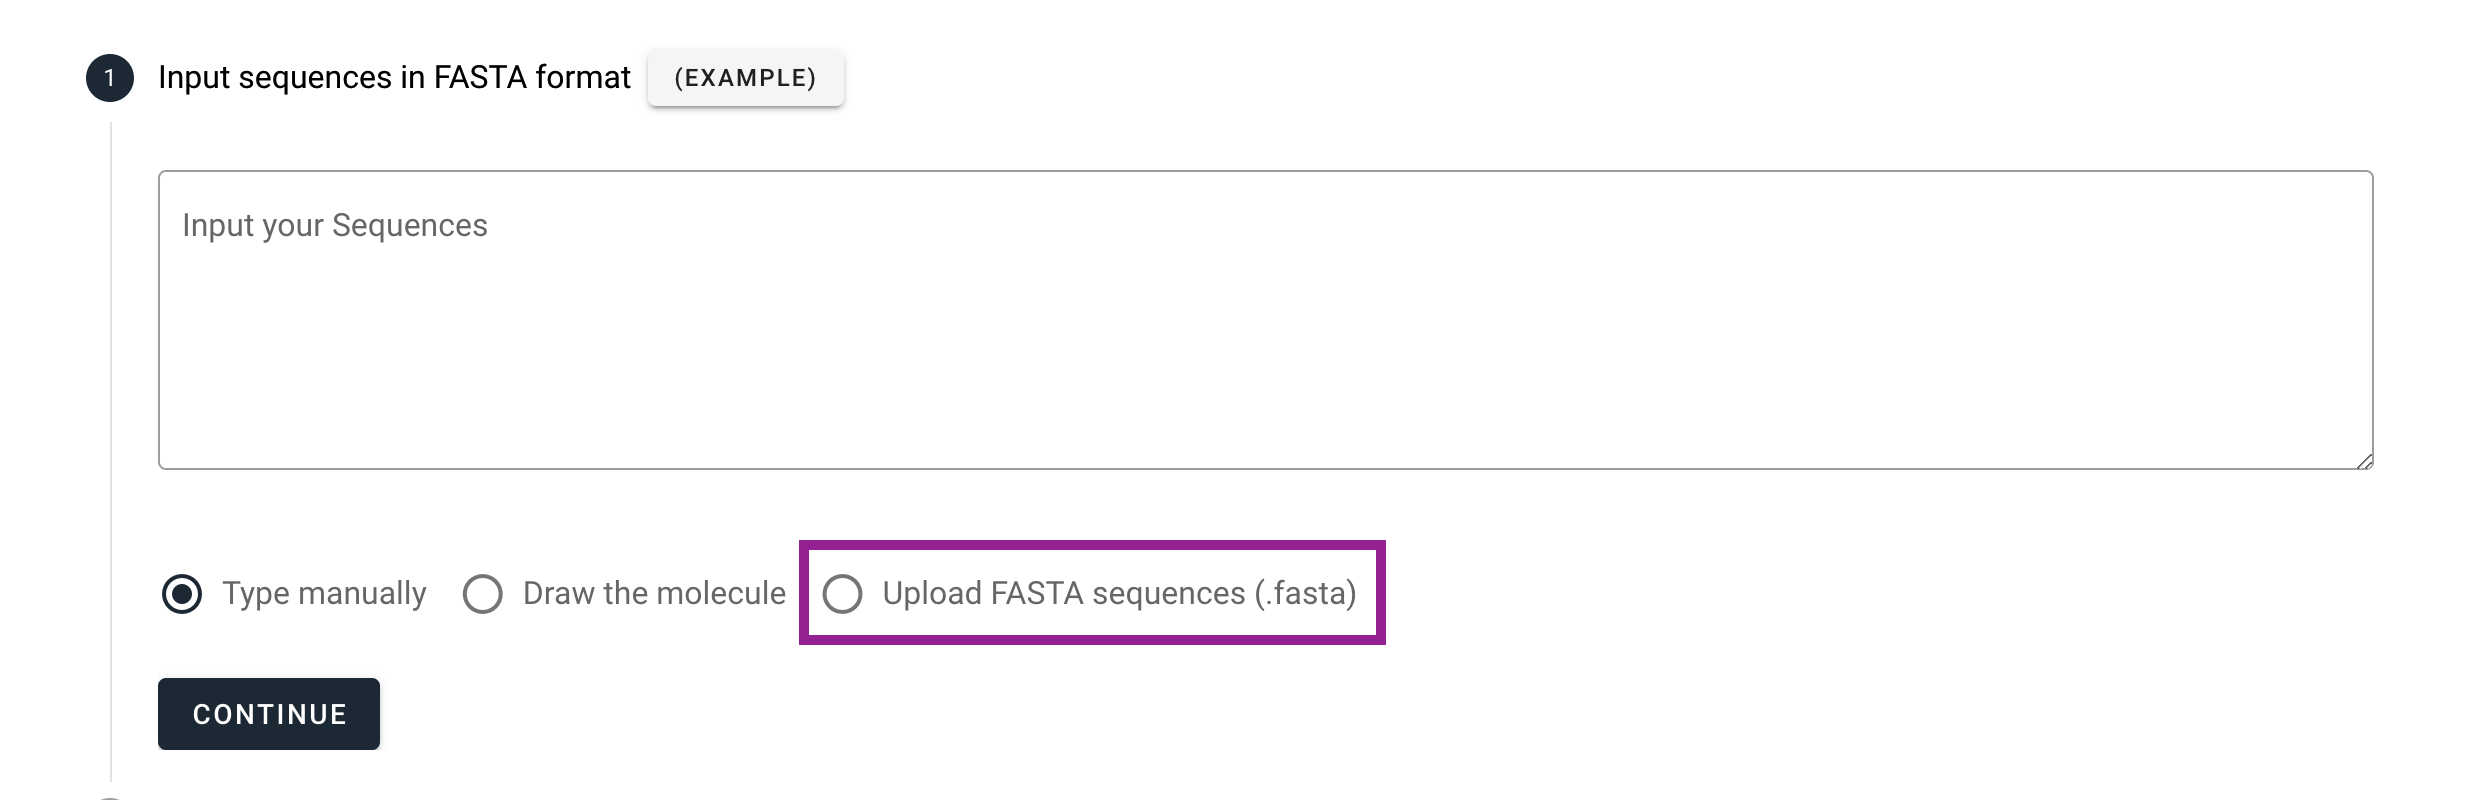
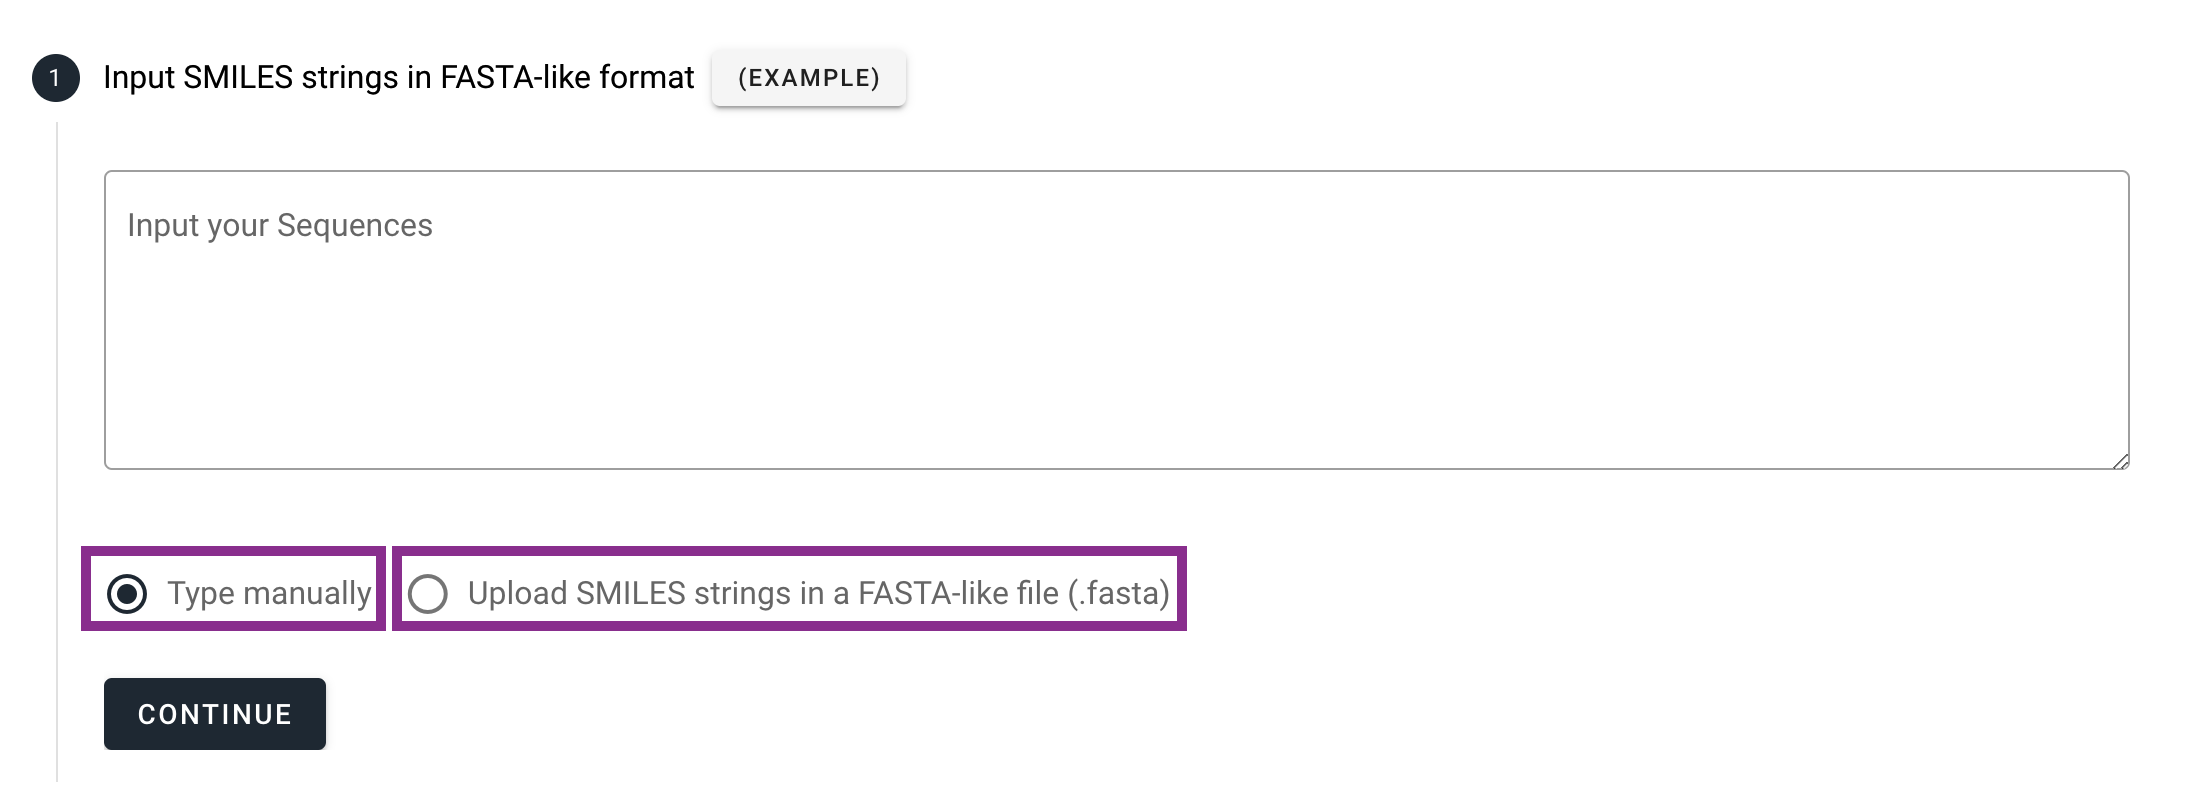
Update: Updated the help page.

diff --git a/pages/ssl-gcn/help.vue b/pages/ssl-gcn/help.vue
@@ -6,28 +6,27 @@
                 <div>
                     <h3 class="text-2xl">Input – Sequences</h3>
                     <ImageCard class="mt-2" src="/images/ssl-toxgcn-help-sequences.png" />
-                    <p>Paste your amino acide sequences in FASTA format such as:</p>
+                    <p>Paste your SMILES strings using the FASTA format such as:</p>
                     <code class="bg-gray-500"
                         >>TEST0<br />O=C1Cc2cc(CCN3CCN(c4nsc5ccccc45)CC3)c(Cl)cc2N1<br />>TEST1<br />CN(C)CCOC1=Cc2ccccc2Sc2ccc(Cl)cc21</code
                     >
                     <p>
-                        where AC_1 and AC_2 are sequence IDs. Each sequence should be at least 5
-                        a.a. long and maximally 250 a.a. or an error will be reported. Only 1-letter
-                        code for 20 standard amino acids is acceptable. If the number of sequences
-                        is large, you can upload them in a file (in FASTA format) by selecting the
-                        “Upload FASTA sequences” checkbox. Uploaded sequence files are limited to 1
-                        MB.
+                        where TEST0 and TEST1 are IDs. If the number of compounds is large, you can
+                        upload them in a file (in a FASTA-like format) by selecting the “Upload”
+                        checkbox. Uploaded data files are limited to 1 MB.
                     </p>
                 </div>
                 <div>
-                    <h3 class="text-2xl">Input – Prediction for Types of Cancer</h3>
+                    <h3 class="text-2xl">
+                        Input – Prediction for Types of Toxicological Endpoints
+                    </h3>
                     <ImageCard
                         class="mt-2"
-                        src="/images/ssl-toxgcn-help-prediction-for-types-of-cancer.png"
+                        src="/images/ssl-toxgcn-help-prediction-for-toxicological-endpoints.png"
                     />
                     <p>
-                        Select the prediction for types of cancer that you are interested to
-                        predict:
+                        Select the prediction for types of toxicological endpoint that you are
+                        interested to predict:
                     </p>
                     <ul>
                         <li>
@@ -101,7 +100,7 @@
                 <div>
                     <h3 class="text-2xl">Result</h3>
                     <p>
-                        The prediction result of all submitted sequences will be displayed in a
+                        The prediction result of all submitted compounds will be displayed in a
                         single page. All columns can be sorted as user’s need, and all results are
                         downloadable in a CSV file.
                     </p>
@@ -116,10 +115,6 @@
                     <li>
                         <span class="font-bold">Jiarui Chen</span>
                         <code>chen709847237@gmail.com</code>
-                    </li>
-                    <li>
-                        <span class="font-bold">Carter Cheong </span>
-                        <code>Carter96121@gmail.com</code>
                     </li>
                     <li>
                         <span class="font-bold">Edison Un (web developer)</span>

diff --git a/pages/ssl-gcn/contact.vue b/pages/ssl-gcn/contact.vue
@@ -10,19 +10,7 @@
                         class="w-1/2"
                         title="Developer"
                         name="Ray Chen"
-                        email="mb85409@connect.um.edu.mo"
-                    />
-                    <ContactCard
-                        class="w-1/2"
-                        title="Developer"
-                        name="Carter Cheong"
-                        email="carter96121@gmail.com"
-                    />
-                    <ContactCard
-                        class="w-1/2"
-                        title="Developer"
-                        name="Giotto Tai"
-                        email="giottotai@yahoo.com.hk"
+                        email="chen709847237@gmail.com"
                     />
                     <ContactCard
                         class="w-1/2"
@@ -50,5 +38,8 @@ import ContactCard from '../../components/ContactCard';
 export default {
     layout: 'ssl-gcn',
     name: 'ContactPageIndex',
+    components: {
+        ContactCard,
+    },
 };
 </script>
